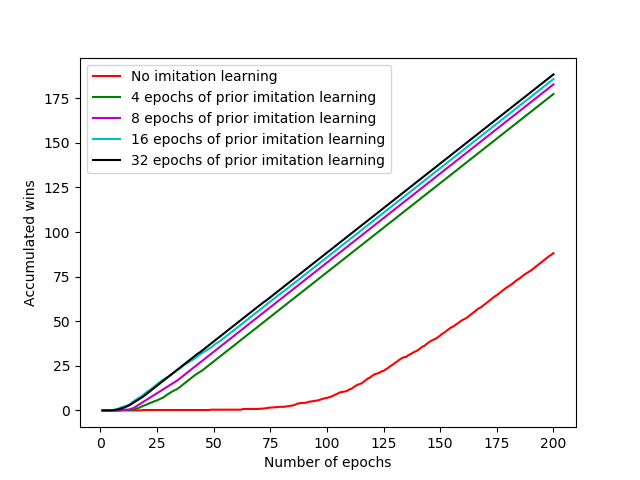
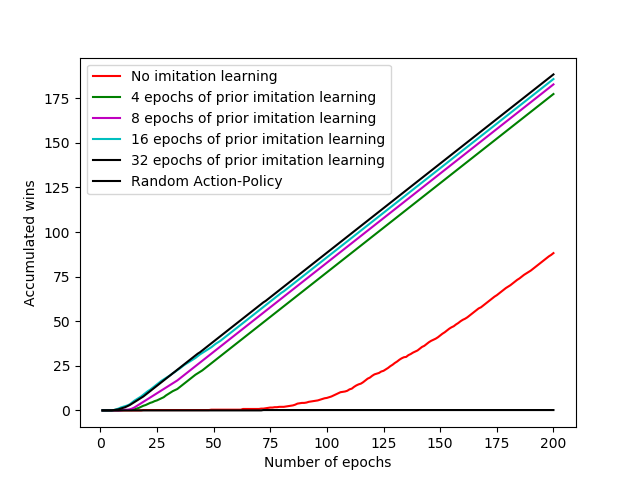
work

Changed region(s): [[0.1562, 0.8438, 0.8438, 0.875], [0.125, 0.3438, 0.4375, 0.4062]]

diff --git a/misc/plot_frozen_imi_result.py b/misc/plot_frozen_imi_result.py
@@ -124,13 +124,18 @@ def how_much_imi(file_name):
     return int(nr_imi / divide_by)
 
 
-def calc_avg_win(dir, files):
+def calc_avg_win(dir, files, no_imi=False):
     tot_win = []
     epochs = []
     first_file = True
 
     for file in files:
-        skipp_epochs = how_much_imi(file)
+
+        if no_imi:
+            skipp_epochs = 0
+        else:
+            skipp_epochs = how_much_imi(file)
+
         score_when_skipped = 0
 
         with open(join(dir, file), 'r') as csv_file:
@@ -166,6 +171,15 @@ def calc_avg_win(dir, files):
     return epochs, avg_win
 
 
+def add_random_data(dir):
+    # Plot random data
+    random_runs = __group_by_run(dir)
+
+    for run_params, files in random_runs.items():
+        epochs, avg_win = calc_avg_win(dir, files, no_imi=True)
+        plt.plot(epochs, avg_win, label="Random Action-Policy", color="k")
+
+
 # Plot one plot with all runs avg
 def plot_frozen_imi_res_avg(dir):
     # Constants
@@ -198,6 +212,8 @@ def plot_frozen_imi_res_avg(dir):
             label = f"{imi_epochs} epochs of prior imitation learning"
 
         plt.plot(epochs, avg_win, label=label, color=color.pop())
+
+    add_random_data("../Data/frozen/random")
 
     # plt.title("All runs")
     plt.xlabel('Number of epochs')
